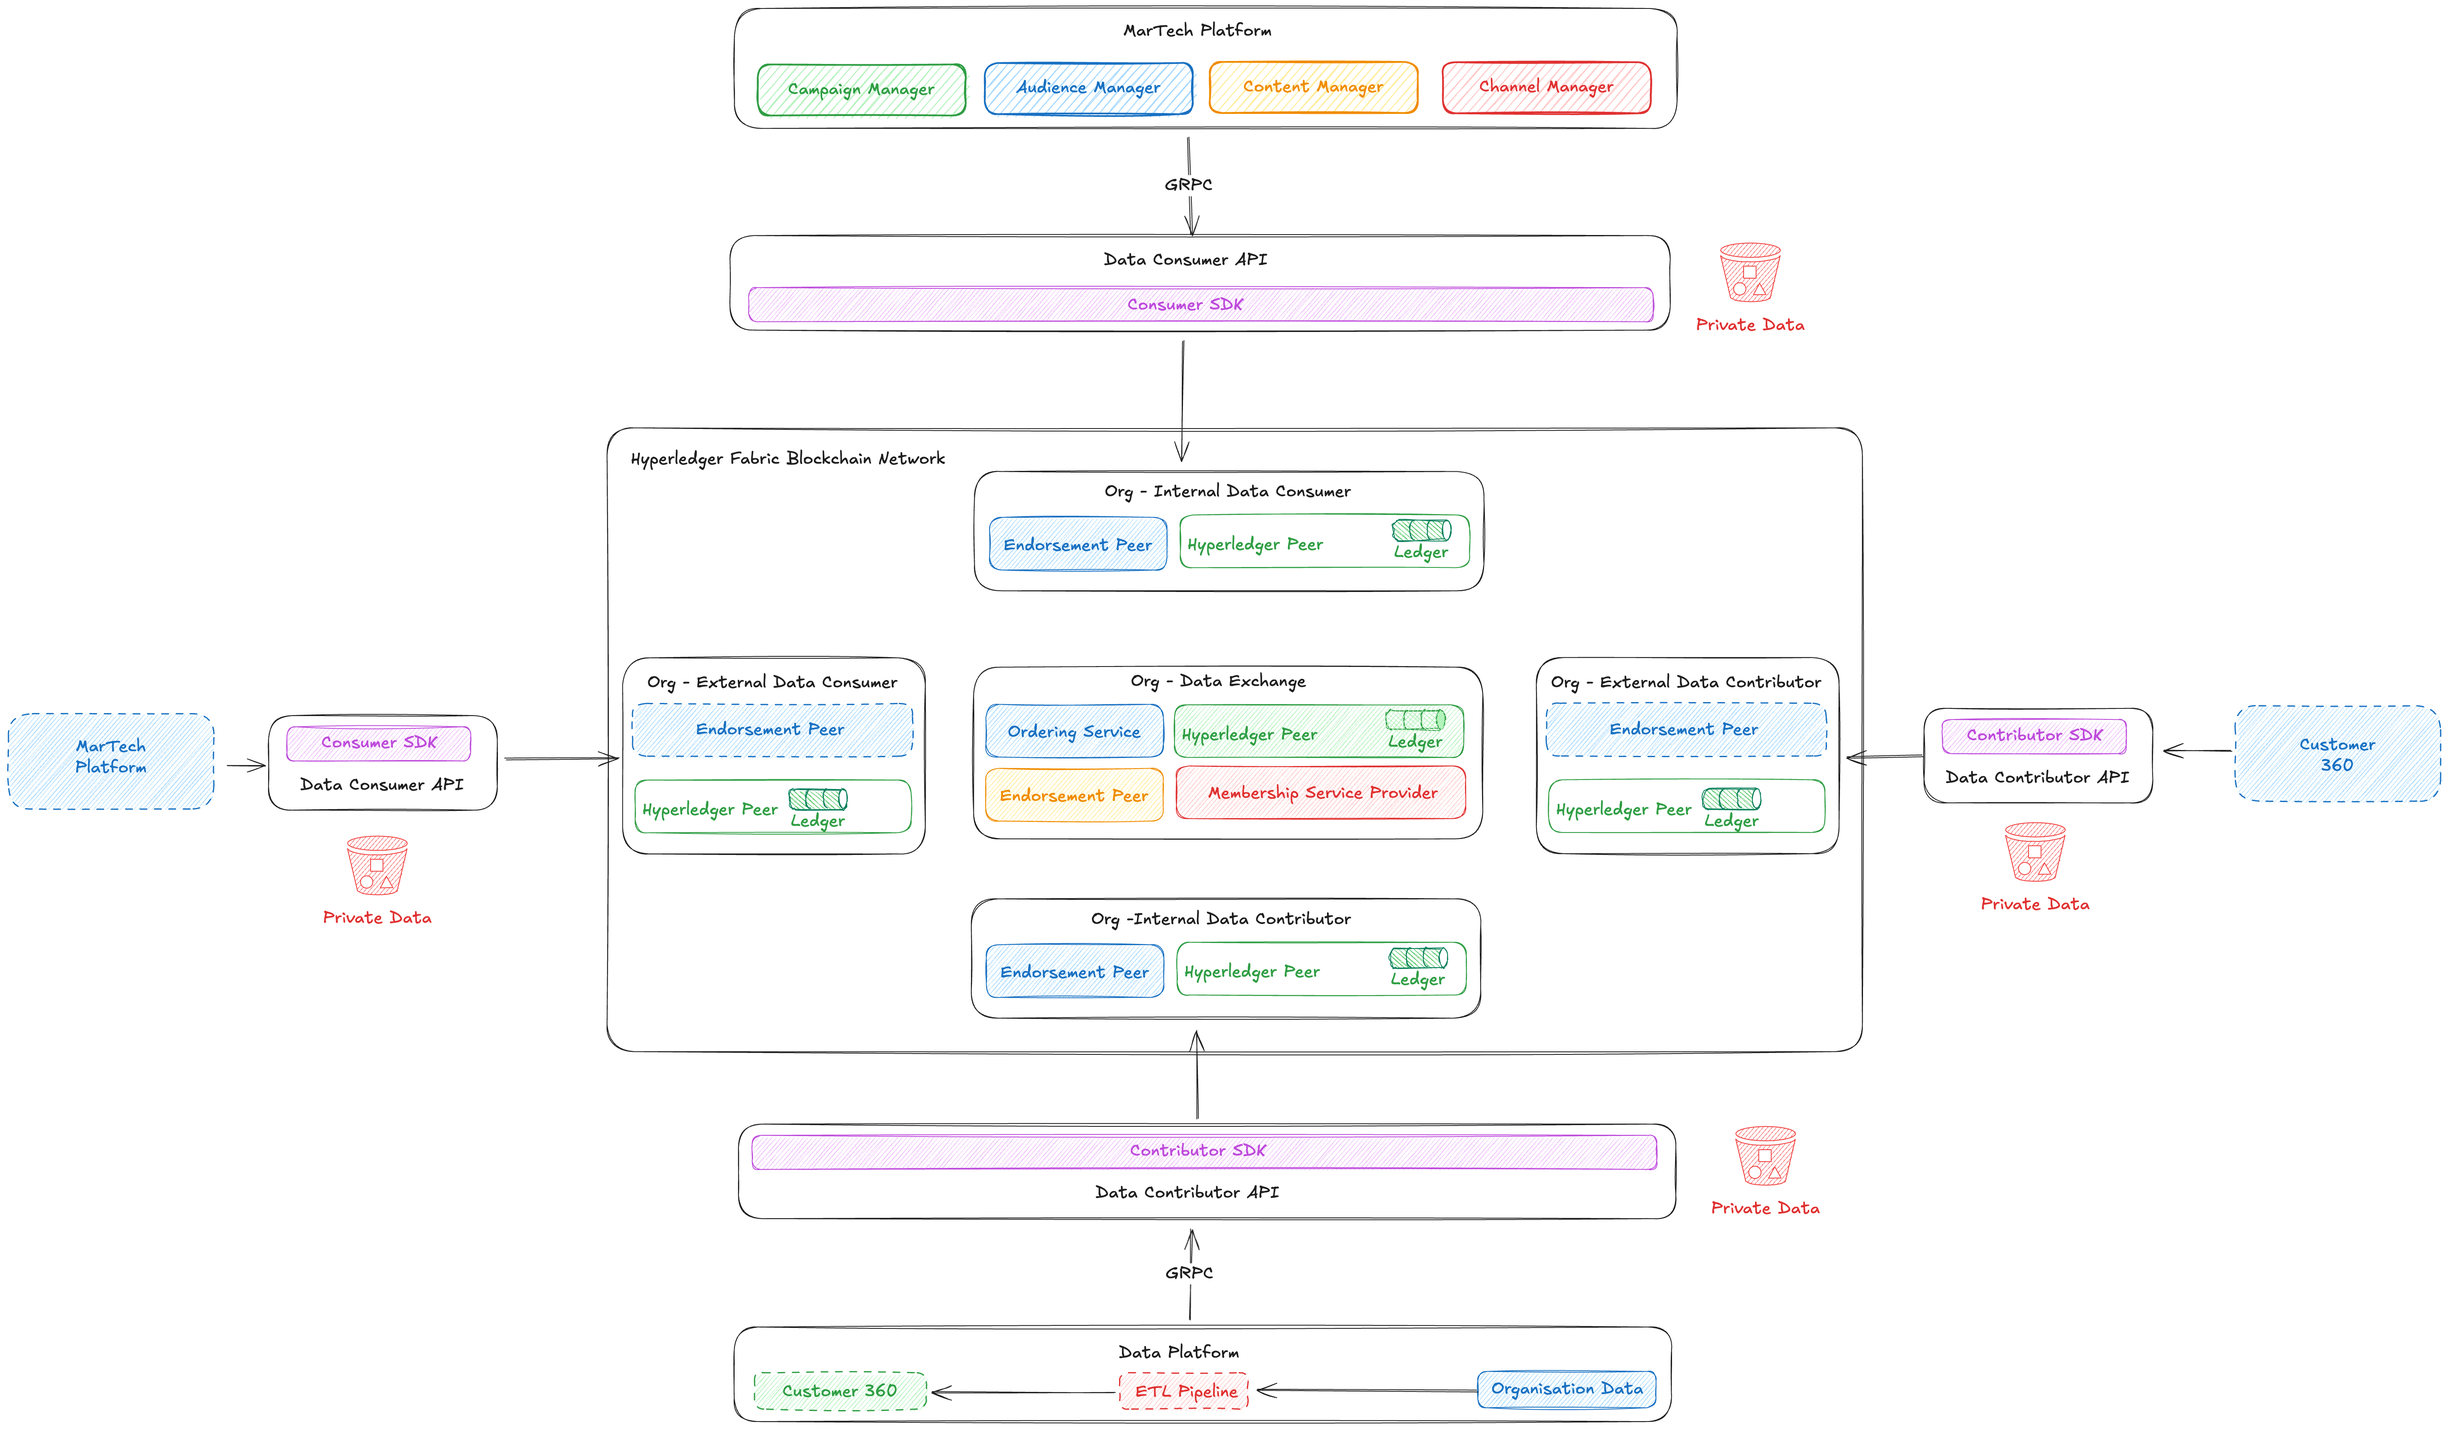
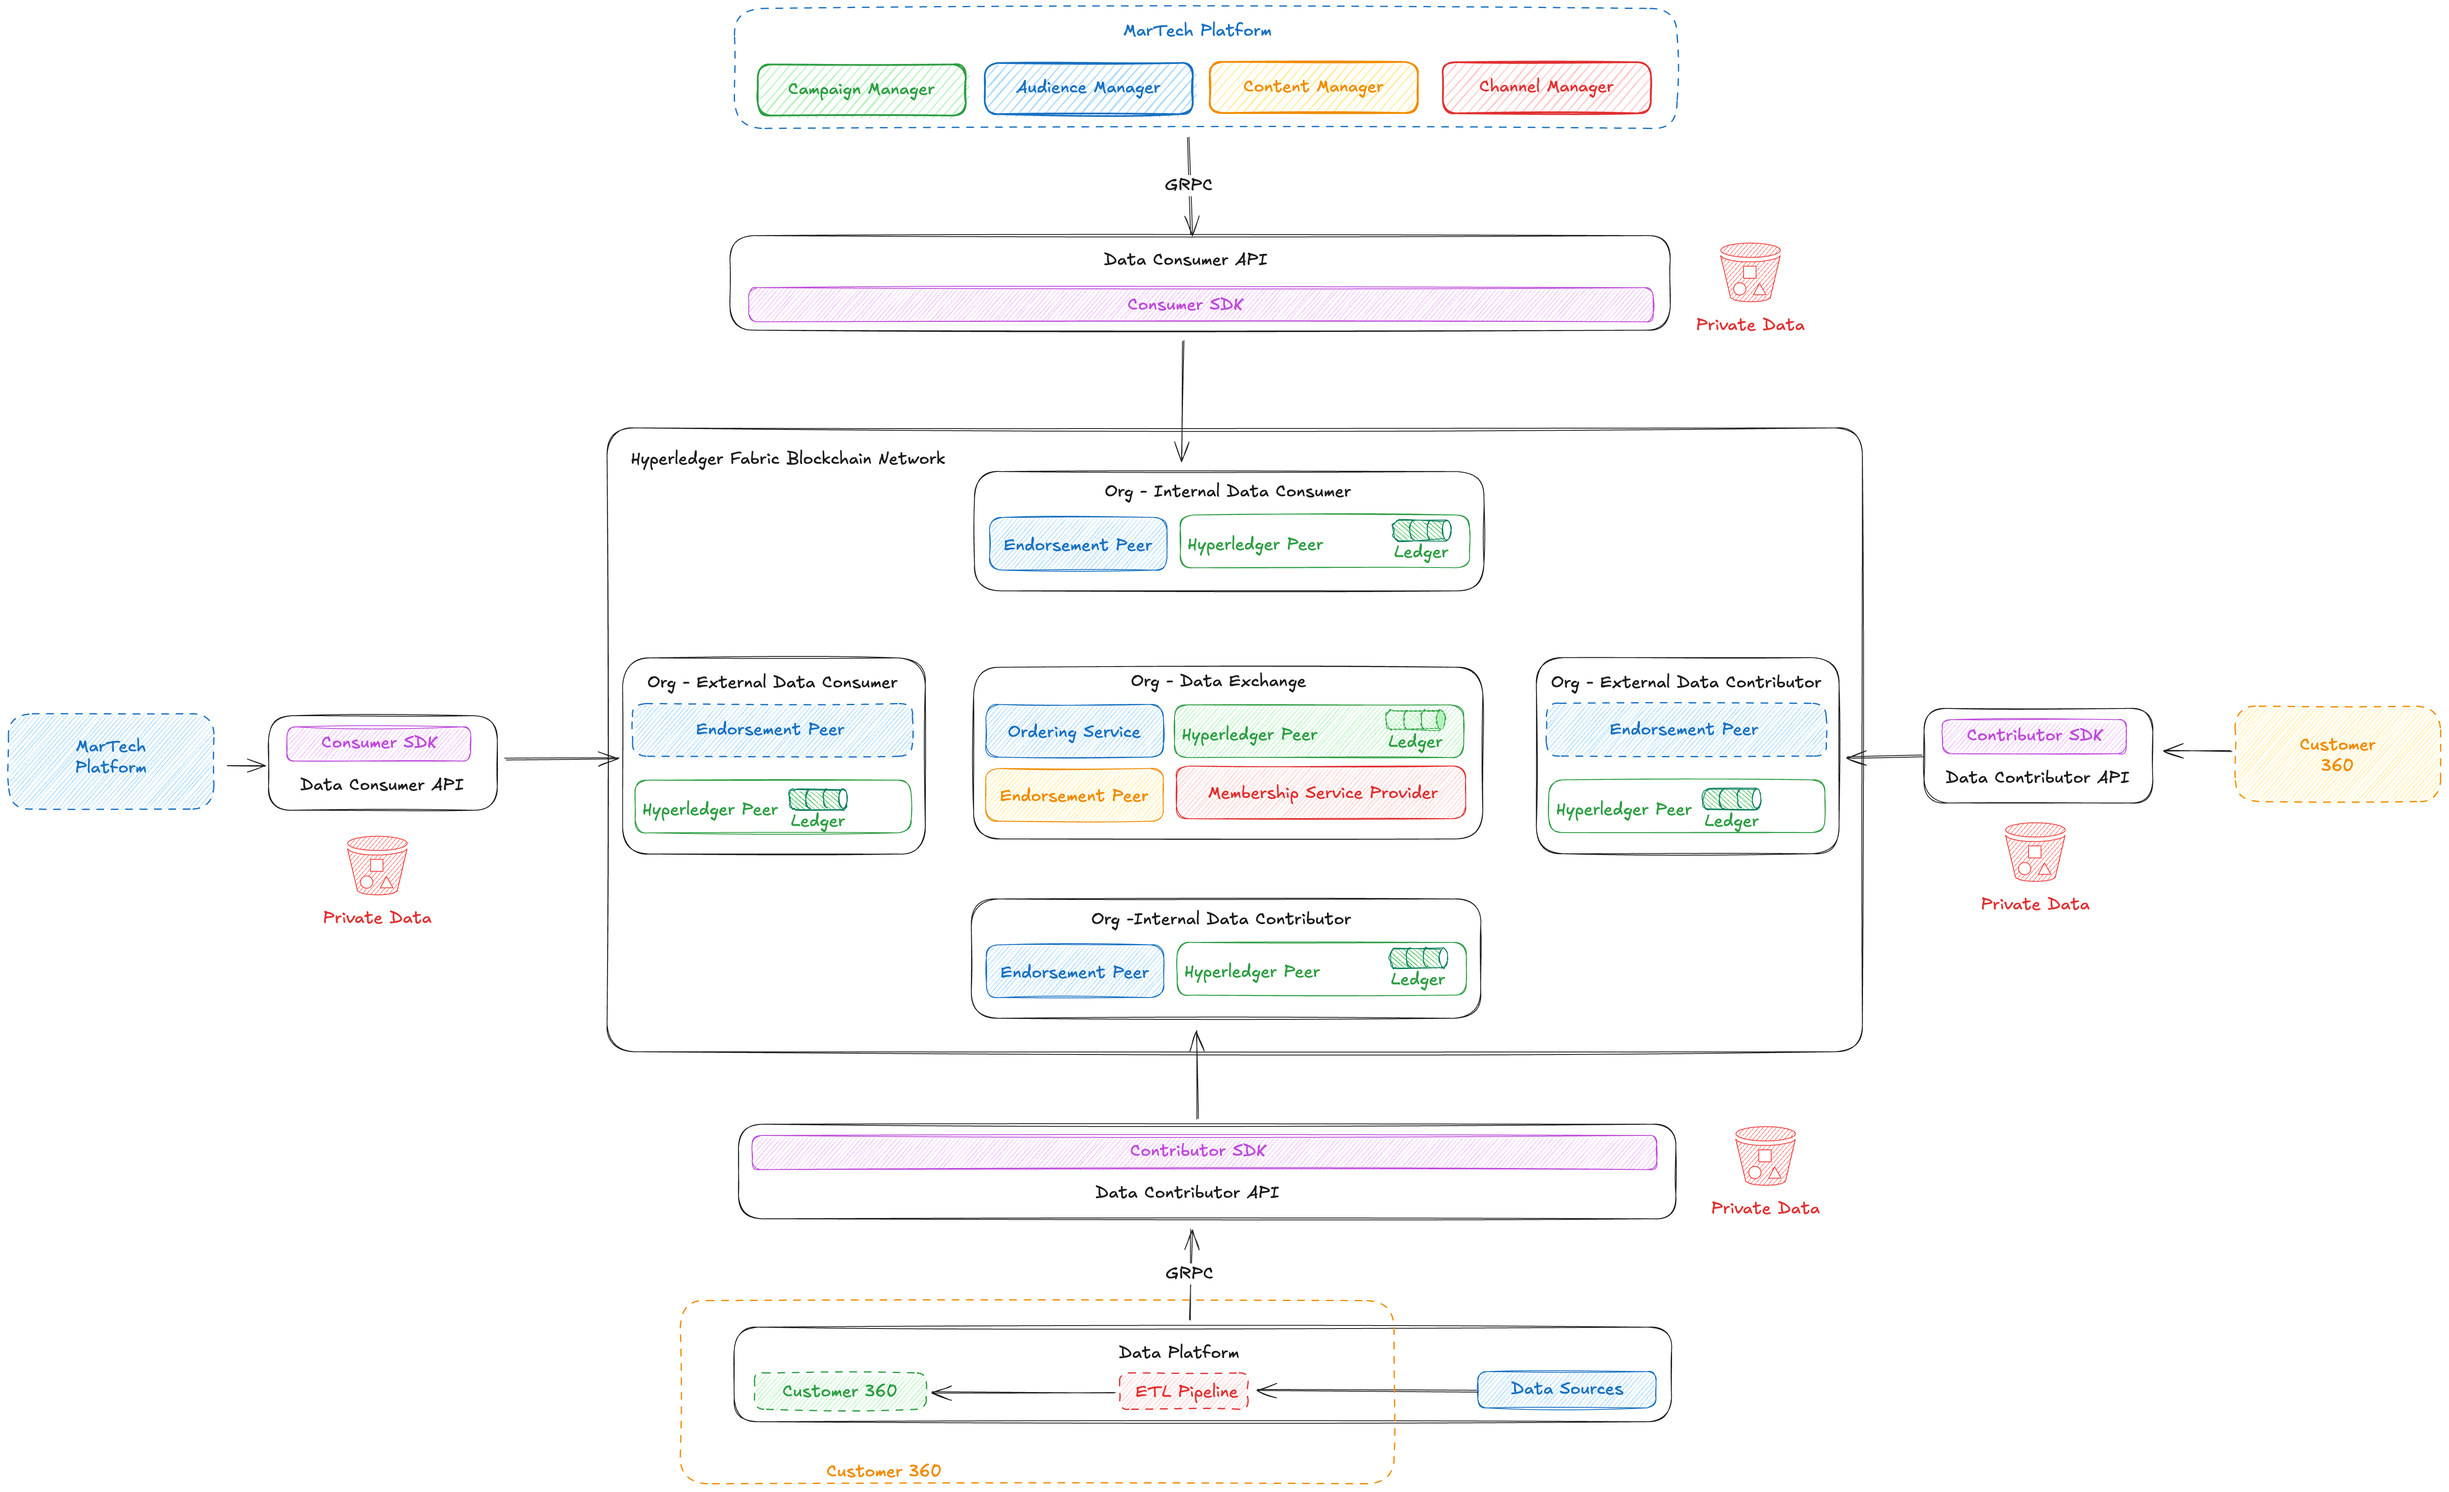
Minor Changes

diff --git a/data-exchange/architecture/Readme.md b/data-exchange/architecture/Readme.md
@@ -102,3 +102,7 @@ Responsibilities
 4. Instagram or facebook???
 5. YouTube ???
 6. LinkedIn and Twitter??
+
+## Customer 360
+1. Profile Store
+2. Configurable Spark based pipeline
